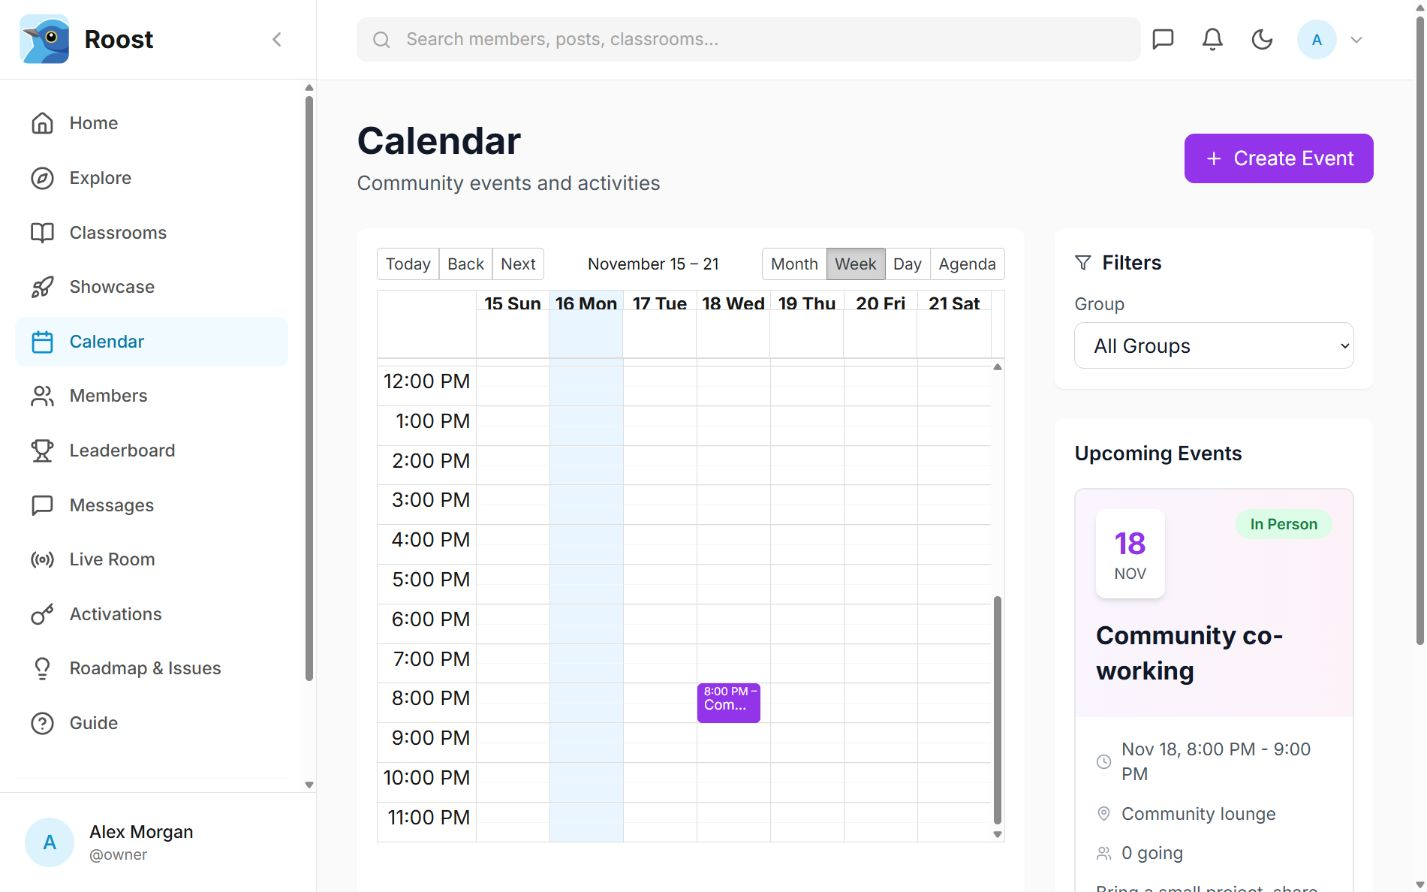
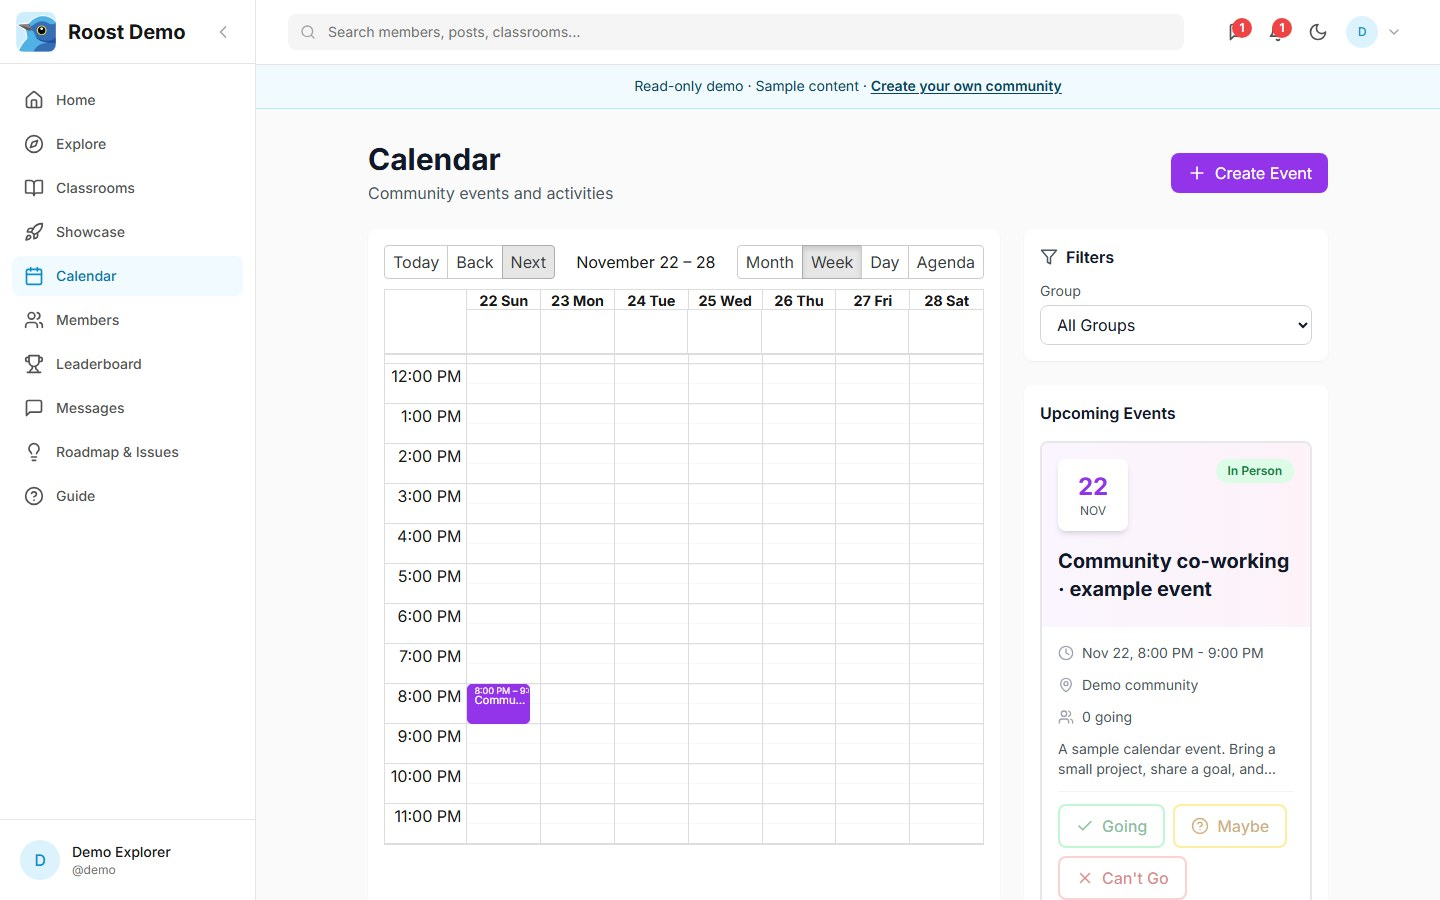
Refresh product and docs screenshots with light and dark demo views

diff --git a/website/tests/screenshot-appearance.spec.ts b/website/tests/screenshot-appearance.spec.ts
@@ -1,0 +1,67 @@
+import { test, expect } from './fixtures';
+
+test('member previews switch appearance and preserve it across feature tabs', async ({ page }) => {
+  test.setTimeout(90000);
+  for (const width of [390, 1440]) for (const path of ['/', '/features/']) {
+    await page.setViewportSize({ width, height: 900 });
+    await page.goto(path);
+    const tour = page.locator('[data-screenshot-tour]');
+    const current = tour.locator('.tour-panel:not([hidden])');
+    await current.getByRole('button', { name: 'Dark', exact: true }).click();
+    await expect(current.getByRole('button', { name: 'Dark', exact: true })).toHaveAttribute('aria-pressed', 'true');
+    await expect(current.locator('img:visible')).toHaveAttribute('alt', /dark mode/);
+    await expect(current.getByRole('link', { name: 'Open full-size screenshot', exact: true }).filter({ visible: true })).toHaveAttribute('href', /feed-dark.*\.jpg$/);
+    const tabs = tour.getByRole('tablist', { name: 'Product screenshots' });
+    const calendar = tabs.getByRole('tab', { name: 'Calendar', exact: true });
+    await calendar.click();
+    await expect(calendar).toHaveAttribute('aria-selected', 'true');
+    await expect(current.locator('img:visible')).toHaveAttribute('alt', /dark mode/);
+    // Responsive srcset density can round the browser's intrinsic pixel size.
+    await expect.poll(() => current.locator('img:visible').evaluate((img: HTMLImageElement) => img.complete && Math.abs(img.naturalWidth / img.naturalHeight - 1.6) < 0.02)).toBe(true);
+    await current.getByRole('button', { name: 'Light', exact: true }).focus();
+    await page.keyboard.press('Space');
+    await expect(current.locator('img:visible')).toHaveAttribute('alt', /light mode/);
+    const administration = tabs.getByRole('tab', { name: 'Administration', exact: true });
+    await administration.click();
+    await expect(administration).toHaveAttribute('aria-selected', 'true');
+    await expect(current).toContainText('Local sample installation · admin workspace');
+    await expect(current.getByRole('button', { name: 'Dark', exact: true })).toHaveCount(0);
+    await expect(current.locator('img:visible')).toHaveCount(1);
+    expect(await page.evaluate(() => document.documentElement.scrollWidth <= innerWidth)).toBe(true);
+  }
+});
+
+test('an appearance change waits for its image without blanking the current preview', async ({ page }) => {
+  let release!: () => void;
+  const gate = new Promise<void>(resolve => { release = resolve; });
+  let requested = false;
+  await page.route(/\/_astro\/feed-dark\..*\.webp$/, async route => {
+    requested = true;
+    await gate;
+    await route.continue();
+  });
+  try {
+    await page.goto('/features/');
+    const panel = page.locator('#tour-panel-feed');
+    await panel.getByRole('button', { name: 'Dark', exact: true }).click();
+    await expect.poll(() => requested).toBe(true);
+    await expect(panel.locator('img:visible')).toHaveAttribute('alt', /light mode/);
+    await expect(panel.getByRole('button', { name: 'Light', exact: true })).toHaveAttribute('aria-pressed', 'true');
+    release();
+    await expect(panel.locator('img:visible')).toHaveAttribute('alt', /dark mode/);
+  } finally { release(); }
+});
+
+test('dark documentation screenshots expand without JavaScript', async ({ browser, baseURL }) => {
+  const context = await browser.newContext({ baseURL, javaScriptEnabled: false, viewport: { width: 390, height: 900 } });
+  try {
+    const page = await context.newPage();
+    await page.goto('/docs/using-roost/');
+    const details = page.locator('.screenshot-variant').filter({ has: page.getByText('View dark mode: settings', { exact: true }) });
+    await expect(details.locator('img')).not.toBeVisible();
+    await details.locator('summary').click();
+    await expect(details.locator('img')).toBeVisible();
+    await expect(details.locator('img')).toHaveAttribute('alt', /dark mode/);
+    expect(await page.evaluate(() => document.documentElement.scrollWidth <= innerWidth)).toBe(true);
+  } finally { await context.close(); }
+});

diff --git a/website/tests/site.spec.ts b/website/tests/site.spec.ts
@@ -284,7 +284,7 @@ test('the feature tour keeps its current screenshot until the next one loads', a
     await expect(page.locator('#tour-panel-feed')).toBeVisible();
     releaseImage();
     await expect(tabs.getByRole('tab', { name: 'Classrooms', exact: true })).toHaveAttribute('aria-selected', 'true');
-    await expect.poll(() => page.locator('#tour-panel-classrooms img').evaluate((img: HTMLImageElement) => img.complete && img.naturalWidth > 0)).toBe(true);
+    await expect.poll(() => page.locator('#tour-panel-classrooms img:visible').evaluate((img: HTMLImageElement) => img.complete && img.naturalWidth > 0)).toBe(true);
   } finally {
     releaseImage();
   }
@@ -582,16 +582,16 @@ test('live demo calls to action and the real screenshot tour work with pointer a
         const panel = page.locator('.tour-panel:not([hidden])');
         await expect(panel).toHaveCount(1);
         await expect(panel).toHaveAttribute('aria-labelledby', (await tab.getAttribute('id'))!);
-        await expect(panel.locator('img')).toHaveCount(1);
+        await expect(panel.locator('img:visible')).toHaveCount(1);
         for (const screenshot of await panel.locator('img:visible').all()) {
           await screenshot.scrollIntoViewIfNeeded();
           await expect.poll(() => screenshot.evaluate((element: HTMLImageElement) => element.complete && element.naturalWidth > 0)).toBe(true);
         }
         const heading = await panel.locator('h3').boundingBox();
-        const screenshot = await panel.locator('img').boundingBox();
+        const screenshot = await panel.locator('img:visible').boundingBox();
         expect(heading!.y + heading!.height).toBeLessThan(screenshot!.y);
         expect(screenshot!.width).toBeGreaterThan((await panel.boundingBox())!.width - 4);
-        await expect(panel.getByRole('link', { name: 'Open full-size screenshot', exact: true })).toHaveAttribute('target', '_blank');
+        await expect(panel.getByRole('link', { name: 'Open full-size screenshot', exact: true }).filter({ visible: true })).toHaveAttribute('target', '_blank');
         if (process.env.ROOST_SCREENSHOT_DIR && (await tab.getAttribute('id')) === 'tour-tab-calendar') {
           await panel.screenshot({ path: join(process.env.ROOST_SCREENSHOT_DIR, `features-events-${width}.png`) });
         }
@@ -760,11 +760,12 @@ test('single-line docs commands stay compact and copy their complete contents', 
 
 
 test('illustrated member and admin guides load responsive full-size screenshots', async ({ page, request }) => {
-  test.setTimeout(120000);
+  test.setTimeout(180000);
   for (const width of [390, 1440]) {
     await page.setViewportSize({ width, height: 900 });
     for (const guide of ['using-roost', 'administration', 'self-hosted-setup', 'backups']) {
       await page.goto(`/docs/${guide}/`);
+      for (const summary of await page.locator('.screenshot-variant > summary').all()) await summary.click();
       const pictures = page.locator('.docs-content img');
       expect(await pictures.count()).toBeGreaterThan(0);
       for (const picture of await pictures.all()) {

diff --git a/website/src/scripts/site.ts b/website/src/scripts/site.ts
@@ -151,16 +151,44 @@ for (const screenshot of document.querySelectorAll<HTMLImageElement>(".docs-cont
   link.append(screenshot);
 }
 
+const screenshotPreviews = [...document.querySelectorAll<HTMLElement>('[data-screenshot-preview]')];
+let appearanceRequest = 0;
+for (const preview of screenshotPreviews) {
+  for (const button of preview.querySelectorAll<HTMLButtonElement>('[data-screenshot-mode]')) {
+    button.disabled = false;
+    button.addEventListener('click', async () => {
+      const request = ++appearanceRequest;
+      const mode = button.dataset.screenshotMode;
+      const image = preview.querySelector<HTMLImageElement>(`[data-screenshot-variant="${mode}"] img`);
+      if (!image) return;
+      image.loading = 'eager';
+      try { await image.decode(); } catch { return; }
+      if (request !== appearanceRequest || preview.closest<HTMLElement>('.tour-panel')?.hidden) return;
+      for (const item of screenshotPreviews) {
+        if (!item.querySelector('[data-screenshot-mode]')) continue;
+        for (const control of item.querySelectorAll('[data-screenshot-mode]')) control.setAttribute('aria-pressed', String(control.getAttribute('data-screenshot-mode') === mode));
+        for (const figure of item.querySelectorAll<HTMLElement>('[data-screenshot-variant]')) figure.hidden = figure.dataset.screenshotVariant !== mode;
+      }
+    });
+  }
+}
+
 for (const tour of document.querySelectorAll<HTMLElement>("[data-screenshot-tour]")) {
   const tabs = [...tour.querySelectorAll<HTMLButtonElement>(':scope > .tour-tabs > [role="tab"]')];
   const panels = [...tour.querySelectorAll<HTMLElement>(':scope > [role="tabpanel"]')];
   let request = 0;
   const activate = async (index: number, focus = false) => {
     const currentRequest = ++request;
-    const image = panels[index].querySelector<HTMLImageElement>('figure img');
-    if (image) {
+    // A theme choice can change while a different feature's image is loading.
+    // Decode the final appearance before exposing the next panel.
+    let image = panels[index].querySelector<HTMLImageElement>('figure:not([hidden]) img');
+    while (image) {
       image.loading = 'eager';
       try { await image.decode(); } catch { return; }
+      if (currentRequest !== request) return;
+      const selected = panels[index].querySelector<HTMLImageElement>('figure:not([hidden]) img');
+      if (selected === image) break;
+      image = selected;
     }
     if (currentRequest !== request) return;
     tabs.forEach((tab, position) => {

diff --git a/website/src/styles/feature-tour.css b/website/src/styles/feature-tour.css
@@ -5,6 +5,14 @@
 .screenshot-tour .tour-panel-copy p { max-width: 760px; margin: 0; color: var(--muted); font-size: 14px; line-height: 1.75; }
 .screenshot-tour .tour-panel figure { padding: 0; background: #f5f7fb; }
 .tour-screenshot-link { display: block; }
+.screenshot-appearance { display: flex; align-items: center; gap: 4px; margin-bottom: 12px; }
+.screenshot-appearance > span { margin-right: 8px; color: var(--muted); font-size: 12px; }
+.screenshot-appearance button { min-height: 44px; min-width: 62px; padding: 8px 14px; border: 1px solid var(--line); background: white; color: var(--ink); font-size: 12px; font-weight: 600; }
+.screenshot-appearance button[aria-pressed="true"] { background: var(--blue); border-color: var(--blue); color: white; }
+.screenshot-appearance button:disabled { cursor: wait; }
+.docs-content .screenshot-variant { margin: 12px 0 28px; border: 1px solid var(--line); }
+.docs-content .screenshot-variant summary { padding: 12px 16px; min-height: 44px; cursor: pointer; font-weight: 600; font-size: 14px; }
+.docs-content .screenshot-variant > p { margin: 0; padding: 0 12px 12px; }
 .screenshot-tour .tour-panel img { border: 0; }
 .screenshot-tour .tour-panel .tour-caption-footer { padding: 10px 16px; border-top: 1px solid var(--line); text-align: left; }
 .screenshot-tour .tour-caption-footer .text-link { min-height: 32px; font-size: 12px; }

diff --git a/guides/using-roost.md b/guides/using-roost.md
@@ -1,12 +1,18 @@
 # Using Roost
 
-A visual walkthrough of the member experience. Screenshots come from a full local installation with fictional accounts and content. Select a screenshot to open it at full size. The public live demo is read-only; your own installation supports the actions described here.
+A visual walkthrough refreshed from the [live demo](https://roost-demo.msrbuilds.com) on November 21, 2026. Every screenshot uses a 1440 × 900 viewport with fictional accounts and content. Expand **View dark mode** to compare appearances, or select an image to open it at full size. The shared demo is read-only; your own installation supports the actions described here.
 
 ## Sign in and find your way around
 
 Use **Login** with your community account. New members can use **Sign Up** when registration is available; confirmation and password-reset email depend on your administrator's email configuration.
 
-![Roost sign-in screen with email and password fields.](../website/src/assets/demo/login.jpg)
+![Roost sign-in screen with email and password fields. (light mode)](../website/src/assets/demo/login.jpg)
+
+<details class="screenshot-variant"><summary>View dark mode: sign in</summary>
+
+![Roost sign-in screen with email and password fields. (dark mode)](../website/src/assets/demo/login-dark.jpg)
+
+</details>
 
 The sidebar takes you to the feed, classrooms, members, messages, and calendar. On a phone, open the navigation menu to find the same destinations. Some optional destinations depend on the community's feature settings and your membership.
 
@@ -14,7 +20,13 @@ The sidebar takes you to the feed, classrooms, members, messages, and calendar. 
 
 On **Home**, choose **Write something…** to create a post. Add a title if useful, write your message, and publish. Open a post to read it in context, react, or add a comment. Pinned posts keep important community information near the top.
 
-![Roost home feed with a post composer, pinned welcome message, and member discussions.](../website/src/assets/demo/feed.jpg)
+![Roost read-only home feed with a pinned welcome message and member discussions. (light mode)](../website/src/assets/demo/feed.jpg)
+
+<details class="screenshot-variant"><summary>View dark mode: community feed</summary>
+
+![Roost read-only home feed with a pinned welcome message and member discussions. (dark mode)](../website/src/assets/demo/feed-dark.jpg)
+
+</details>
 
 Follow people whose updates interest you. The feed's topic and sorting controls help you find relevant conversations.
 
@@ -22,11 +34,23 @@ Follow people whose updates interest you. The feed's topic and sorting controls 
 
 Open **Classrooms** to discover learning spaces or return to **My Classrooms**. A card shows the classroom description, membership count, and your membership state. Public and private classrooms have different access rules.
 
-![Three classroom cards with icons above their titles, descriptions, and membership controls.](../website/src/assets/demo/classrooms.jpg)
+![Three classroom cards with icons above their titles, descriptions, and membership controls. (light mode)](../website/src/assets/demo/classrooms.jpg)
+
+<details class="screenshot-variant"><summary>View dark mode: classrooms</summary>
+
+![Three classroom cards with icons above their titles, descriptions, and membership controls. (dark mode)](../website/src/assets/demo/classrooms-dark.jpg)
+
+</details>
 
 Open a classroom, choose a module, then select a lesson. Lessons can combine an embedded video, progress controls, and a discussion. Use **Mark Complete** when you finish; use **Assets** in the module to find supplied learning materials.
 
-![A Roost lesson with module navigation, an embedded public video, progress controls, and discussion.](../website/src/assets/demo/lesson.jpg)
+![A Roost lesson with module navigation, an embedded public video, progress controls, and discussion. (light mode)](../website/src/assets/demo/lesson.jpg)
+
+<details class="screenshot-variant"><summary>View dark mode: lessons</summary>
+
+![A Roost lesson with module navigation, an embedded public video, progress controls, and discussion. (dark mode)](../website/src/assets/demo/lesson-dark.jpg)
+
+</details>
 
 The sample video is HTML Crash Course for Absolute Beginners by Traversy Media, embedded from their public YouTube channel.
 
@@ -34,34 +58,104 @@ The sample video is HTML Crash Course for Absolute Beginners by Traversy Media, 
 
 Search **Members** for people, read their biographies, and open a profile or **Message** link. In **Messages**, choose a conversation or start a new one. Write a message, attach supported images when needed, and use the send button or **Ctrl+Enter**.
 
-![A sample private conversation between Jamie Carter and Maya Chen.](../website/src/assets/demo/messages.jpg)
+![A sample private conversation between Demo Explorer and Maya Chen. (light mode)](../website/src/assets/demo/messages.jpg)
+
+<details class="screenshot-variant"><summary>View dark mode: messages</summary>
+
+![A sample private conversation between Demo Explorer and Maya Chen. (dark mode)](../website/src/assets/demo/messages-dark.jpg)
+
+</details>
+
+![The searchable directory with five fictional members. (light mode)](../website/src/assets/demo/members.jpg)
+
+<details class="screenshot-variant"><summary>View dark mode: members</summary>
+
+![The searchable directory with five fictional members. (dark mode)](../website/src/assets/demo/members-dark.jpg)
+
+</details>
+
+![Maya Chen’s fictional member profile and contribution history. (light mode)](../website/src/assets/demo/profile.jpg)
+
+<details class="screenshot-variant"><summary>View dark mode: member profile</summary>
+
+![Maya Chen’s fictional member profile and contribution history. (dark mode)](../website/src/assets/demo/profile-dark.jpg)
+
+</details>
 
 ## Find events and RSVP
 
 The **Calendar** offers **Month**, **Week**, **Day**, and **Agenda** views. Use **Today**, **Back**, and **Next** to change the visible dates. Group filters narrow the schedule. Select an event for its details; choose **Going**, **Maybe**, or **Can't Go** to update your RSVP.
 
-![Roost calendar with a community co-working event and upcoming event details.](../website/src/assets/demo/calendar.jpg)
+![Roost calendar with a community co-working event and upcoming event details. (light mode)](../website/src/assets/demo/calendar.jpg)
 
-On smaller screens, Week keeps day labels visible and Agenda presents the schedule in a compact table.
+<details class="screenshot-variant"><summary>View dark mode: month calendar</summary>
 
-![Mobile Week calendar with readable day labels and event columns.](../website/src/assets/demo/calendar-mobile-week.jpg)
+![Roost calendar with a community co-working event and upcoming event details. (dark mode)](../website/src/assets/demo/calendar-dark.jpg)
 
-![Mobile Agenda showing an event date, time, and title without horizontal overflow.](../website/src/assets/demo/calendar-mobile-agenda.jpg)
+</details>
+
+Week keeps day labels visible, while Agenda presents dates, times, and event names in a compact table. Both views adapt to smaller screens. The desktop captures below show the refreshed upcoming sample event; the demo keeps its example dates current automatically.
+
+![Desktop Week calendar with clear day columns and an upcoming community event. (light mode)](../website/src/assets/demo/calendar-desktop-week.jpg)
+
+<details class="screenshot-variant"><summary>View dark mode: week calendar</summary>
+
+![Desktop Week calendar with clear day columns and an upcoming community event. (dark mode)](../website/src/assets/demo/calendar-desktop-week-dark.jpg)
+
+</details>
+
+![Desktop Agenda showing an upcoming event date, time, and title. (light mode)](../website/src/assets/demo/calendar-desktop-agenda.jpg)
+
+<details class="screenshot-variant"><summary>View dark mode: calendar agenda</summary>
+
+![Desktop Agenda showing an upcoming event date, time, and title. (dark mode)](../website/src/assets/demo/calendar-desktop-agenda-dark.jpg)
+
+</details>
 
 ## Share work and suggest improvements
 
 Use **Showcase** to discover member projects and submit your own. Submissions may need approval before appearing publicly. Open a project to view its overview, reviews, and website link.
 
-![A member project detail with its overview, author, and feedback controls.](../website/src/assets/demo/showcase.jpg)
+![The showcase directory with a sample community project and filters. (light mode)](../website/src/assets/demo/showcase.jpg)
+
+<details class="screenshot-variant"><summary>View dark mode: showcases</summary>
+
+![The showcase directory with a sample community project and filters. (dark mode)](../website/src/assets/demo/showcase-dark.jpg)
+
+</details>
 
 Use **Roadmap & Issues** for feature ideas, improvements, and bug reports. Search before submitting, vote on useful requests, and check their status. **Leaderboard** highlights community contributions over the selected time period.
+
+![The roadmap with request filters and a disabled read-only submit button. (light mode)](../website/src/assets/demo/roadmap.jpg)
+
+<details class="screenshot-variant"><summary>View dark mode: roadmap</summary>
+
+![The roadmap with request filters and a disabled read-only submit button. (dark mode)](../website/src/assets/demo/roadmap-dark.jpg)
+
+</details>
+
+![Community rankings and contribution points for fictional members. (light mode)](../website/src/assets/demo/leaderboard.jpg)
+
+<details class="screenshot-variant"><summary>View dark mode: leaderboard</summary>
+
+![Community rankings and contribution points for fictional members. (dark mode)](../website/src/assets/demo/leaderboard-dark.jpg)
+
+</details>
 
 ## Update your profile and preferences
 
 Open the account menu and choose **Settings**. Update your display name, biography, location, website, and profile images. Other tabs contain account, membership, and notification settings. Save changes before leaving a form.
 
-![Member profile settings with fictional profile information and a Save Changes button.](../website/src/assets/demo/settings.jpg)
+![Profile settings showing the selected Profile tab, cover image, and avatar. (light mode)](../website/src/assets/demo/settings.jpg)
+
+<details class="screenshot-variant"><summary>View dark mode: settings</summary>
+
+![Profile settings showing the selected Profile tab, cover image, and avatar. (dark mode)](../website/src/assets/demo/settings-dark.jpg)
+
+</details>
 
 **Live Room** and **Activations** appear only when enabled for your account. Live Room is for community broadcasts and chat. Activations lets members request access to products configured by the administrator. Paid membership checkout is optional and requires a separately configured Stripe integration.
+
+Use the sun or moon control in the app header to switch appearances. On the shared demo, settings and content changes remain disabled in both modes.
 
 Community owners should continue with [Administration](./administration.md).

diff --git a/website/src/assets/demo/README.md b/website/src/assets/demo/README.md
@@ -1,22 +1,30 @@
 # Roost product and documentation screenshots
 
-Captured on 2026-11-15 from the full local installation at loopback port 15489.
-All accounts, posts, conversations, projects, and requests are fictional.
-The member is Jamie Carter; admin captures use the separate owner account.
-The public shared demo remains read-only and exposes no admin account.
+The member captures were refreshed on 2026-11-21 from
+https://roost-demo.msrbuilds.com with the shared read-only Demo Explorer account.
+All 28 refreshed images use a **1440 × 900 CSS-pixel viewport**, device scale 1,
+and the real interface in light and dark mode. Dark variants use `-dark.jpg`.
+All accounts, discussions, projects, conversations, and events are fictional.
 
-Desktop captures use the user-selected in-app capture container, approximately
-1363px wide. Mobile calendar captures use a 390px portrait viewport. Screenshots
-include the real interface, with no simulated controls or composited content.
+The current set covers login, feed, classrooms, lessons, messages, members,
+profile, settings, roadmap, leaderboard, and month/week/agenda calendars.
+Week captures advance to the upcoming event's week when necessary. Content,
+images, fonts, and embedded previews finish loading before capture. No interface
+elements are composited, and no controls or sample data are changed for an image.
 
 Astro generates responsive WebP product previews. Original JPEGs remain
-available through full-size links. Member captures are in this directory;
-management captures are in ../admin. Guides reference these same source assets.
+available through full-size links. The product tour offers Light/Dark controls;
+the member guide pairs light screenshots with expandable dark-mode views.
+Admin images in ../admin remain captures from the separate local fictional
+installation on 2026-11-15; the public demo exposes no admin account.
 
 When refreshing, wait for content and embedded previews to load, inspect the
 saved captures, and run the website build and browser suite. Keep credentials,
 real member information, private keys, and browser chrome out of captures.
 
-Tablet calendar captures added 2026-11-15: `calendar-tablet-week.jpg` and `calendar-tablet-agenda.jpg`. Captured from the full local installation with fictional sample data and the owner account, at a 960 × 1280 content viewport (3:4 tablet). Both images preserve the actual interface.
+Historical mobile and tablet calendar images remain from the local fictional
+installation on 2026-11-15. The mobile images are no longer used in the member
+guide; all refreshed screenshots displayed on desktop and mobile are 1440px wide.
 
-Landscape calendar captures added 2026-11-16: `calendar-desktop-week.jpg` and `calendar-desktop-agenda.jpg`. Captured from the same full local sample installation at a 1440px-wide desktop content viewport, for the compact landscape calendar showcase.
+The landscape week and agenda images were refreshed along with the other member
+screens, and show the live demo's rolling upcoming sample event.
